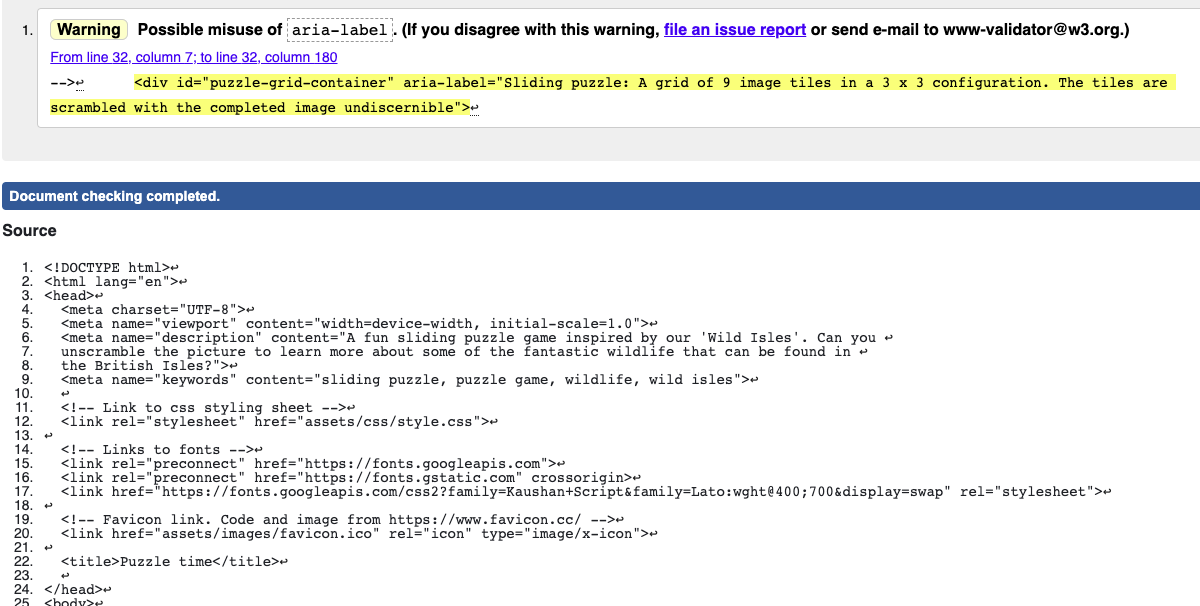
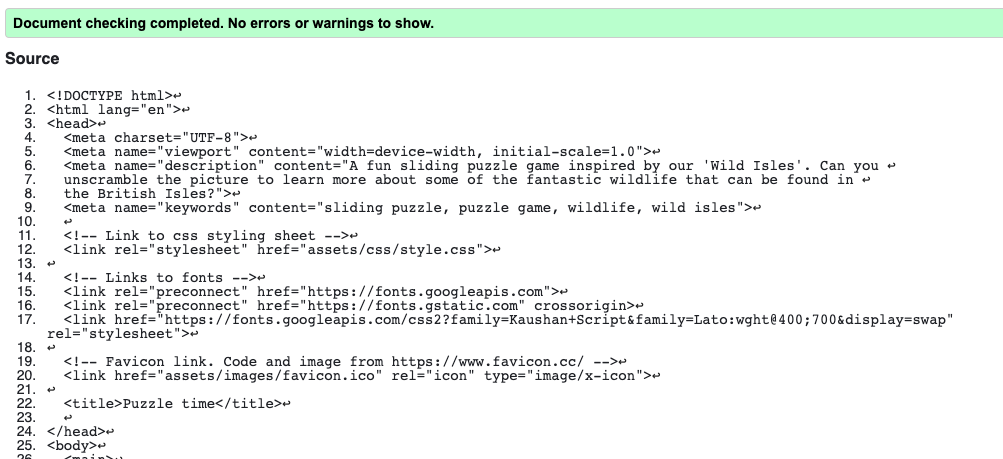
Add most recent HTML validation for puzzle.html

Changed region(s): [[0.0, 0.0, 1.0, 1.0]]

diff --git a/TESTING.md b/TESTING.md
@@ -38,8 +38,6 @@ I fixed this error by removing the offending / from the favicon link in all HTML
 
 ![Image showing validation for puzzle.html](documentation/code-validation/puzzle.html-validation.png)
 
-Warning left in this instance. Aria-label used to provide an explanation of the puzzle grid which cannot be ascertained from the html.
-
 ##### Initial error
 
 ![Image showing validation error for puzzle.html](documentation/code-validation/puzzle.html-validation-error.png)
@@ -74,8 +72,6 @@ I fixed these errors by inserting the missing semicolons in lines 6 and 22
 
 ![Image showing validation for puzzleScript.js](documentation/code-validation/puzzleScript.js-validation.png)
 
-Warning left in this instance as performance and function of the puzzle is not effected with no errors or warnings brought up during any other testing.
-
 ##### Initial errors for puzzleScript.js
 
 ![Image showing validation errors for puzzleScript.js](documentation/code-validation/puzzleScript.js-validation-errors.png)
@@ -83,7 +79,6 @@ Warning left in this instance as performance and function of the puzzle is not e
 I fixed these errors by:
 
 - inserting the missing semicolons in lines 18, 65, 559. 581 and 603
-
 - removing the line breaks before the && and placing after instead, lines 497 - 505
 
 #### WinScript.js
